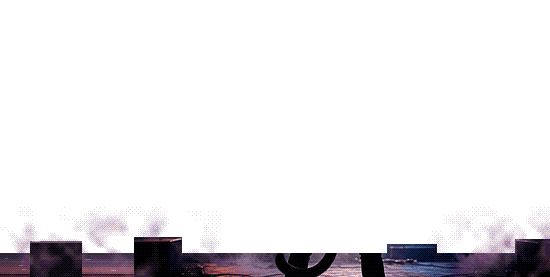
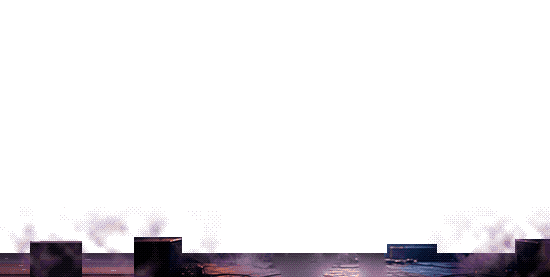
The puma plays along: a dip on the beat, a nod, a swinging tail
make-stage-art.py now paints in the stage behind the puma (filled in from
all round it, the stands' lights scattered back over), so the puma can
move, and cuts it into parts: its legs, which stand; its body from the
waist up with all of the bass, headstock and pegs included, and the
sliver of the bass's body showing beside the right arm made part of the
silhouette; its head from the neck up. Its tail, nearest the camera, is
taken out of the legs (but not where it crosses in front of one) and
left as a line for the page to draw.

painting.js plays them to the theme's beat: the body dips a pixel on
every beat, the head nods a pixel further a moment later, and the tail,
thick to its round end, swings lazily across the floor and flicks on the
bar.

Changed region(s): [[0.4945, 0.8953, 0.6182, 1.0], [0.6491, 0.8953, 0.7109, 1.0]]

diff --git a/web/js/painting.js b/web/js/painting.js
@@ -1,8 +1,9 @@
 // The title's backdrop: a pixel-art painting of the puma on stage from behind, bass slung, facing
 // a crowd of animals and their lights (web/art/, made by tools/make-stage-art.py). Drawn at its own
 // size into a canvas the page scales up square-pixelled, and played to the theme (title-sound.js):
-// the stage lights pulse on its beat, the crowd bobs to it row by row, the lights in the stands twinkle, the phones held up glint
-// and the lighters flicker, and haze drifts along the front of the stage behind the puma. With the
+// the stage lights pulse on its beat, the crowd bobs to it row by row, the lights in the stands
+// twinkle, the phones held up glint and the lighters flicker, and haze drifts along the front of the
+// stage behind the puma; the puma bobs on the beat, nods with it, and swings its tail. With the
 // theme not playing (not yet, or no sound), it keeps the theme's time by itself. Still under
 // reduced motion, and held while a sheet is up.
 
@@ -11,6 +12,9 @@ import { themeBeats, themeBeat } from './title-sound.js';
 const ART = name => new URL(`../art/${name}`, import.meta.url).href;
 const PULSE = 0.18;                      // seconds a beat's light takes to die away
 const BOB = 0.16;                        // seconds a row of the crowd stays up on its beat
+const DIP = 0.14;                        // seconds the puma's body stays down on its beat
+const NOD = [0.03, 0.22];                // when in the beat its head is down a pixel more (it follows the body)
+const SWAY = 8, SWING = 5, FLICK = 4;    // the tail: beats to swing once there and back, pixels at its tip, and its flick on the bar
 
 function load(name) {
   return new Promise((ok, fail) => { const i = new Image(); i.onload = () => ok(i); i.onerror = fail; i.src = ART(name); });
@@ -23,18 +27,18 @@ export function mountPainting(el) {
   const still = matchMedia('(prefers-reduced-motion: reduce)');
   const cv = el.appendChild(document.createElement('canvas'));
   cv.className = 'painting';
-  const names = ['stage.png', 'stage-crowd.png', 'stage-front.png', 'stage-puma.png', 'stage-haze.png'];
-  Promise.all([...names.map(load), fetch(ART('stage-crowd.json')).then(r => r.json())])
-    .then(([stage, crowd, front, puma, haze, meta]) => play(cv, { stage, crowd, front, puma, haze, meta }, still));
+  const names = ['stage.png', 'stage-crowd.png', 'stage-front.png', 'stage-puma.png', 'stage-puma-body.png', 'stage-puma-head.png', 'stage-haze.png'];
+  Promise.all([...names.map(load), ...['stage-crowd.json', 'stage-puma.json'].map(n => fetch(ART(n)).then(r => r.json()))])
+    .then(([stage, crowd, front, legs, body, head, haze, meta, pose]) => play(cv, { stage, crowd, front, legs, body, head, haze, meta, pose }, still));
 }
 
 function play(cv, art, still) {
-  const { stage, crowd, front, puma, haze, meta } = art;
+  const { stage, crowd, front, legs, body, head, haze, meta, pose } = art;
   const W = stage.width, H = stage.height, ctx = cv.getContext('2d');
   cv.width = W; cv.height = H;
   ctx.imageSmoothingEnabled = false;
   const px = (() => { const c = layer(); c.getContext('2d').drawImage(stage, 0, 0); return c.getContext('2d').getImageData(0, 0, W, H).data; })();
-  const pm = (() => { const c = layer(); c.getContext('2d').drawImage(puma, 0, 0); return c.getContext('2d').getImageData(0, 0, W, H).data; })();
+  const pm = (() => { const c = layer(), g = c.getContext('2d'); for (const p of [legs, body, head]) g.drawImage(p, 0, 0); return g.getImageData(0, 0, W, H).data; })();
   function layer() { return Object.assign(document.createElement('canvas'), { width: W, height: H }); }
   const isPuma = (x, y) => pm[(y * W + x) * 4 + 3] > 0;
   const lum = i => 0.299 * px[i] + 0.587 * px[i + 1] + 0.114 * px[i + 2];
@@ -116,8 +120,45 @@ function play(cv, art, still) {
       ctx.drawImage(haze, x, H - haze.height - lift);
     }
     ctx.globalAlpha = 1;
-    ctx.drawImage(puma, 0, 0);
+    drawPuma(at, n, into);
   }
+
+  // The puma: its legs stand; its tail, nearest us, swings lazily, flicking on the bar; its body
+  // dips a pixel on the beat, and its head follows it down a pixel further, a moment late.
+  const tailAt = new Uint8Array(W * H), touched = [];
+  function drawPuma(at, n, into) {
+    ctx.drawImage(legs, 0, 0);
+    const pts = pose.tail, last = pts.length - 1, sway = Math.sin(at / SWAY * 2 * Math.PI);
+    const bar = at % 4, flick = Math.exp(-bar / 0.35) * Math.sin(bar * 9);
+    const moved = pts.map(([x, y], i) => {
+      const w = Math.pow(i / last, 1.6), dx = (sway * SWING + flick * FLICK) * w;
+      return [x + dx, y - Math.abs(dx) * 0.3 * w];
+    });
+    for (const i of touched) tailAt[i] = 0;
+    touched.length = 0;
+    const disc = (x, y, r) => {
+      for (let py = Math.floor(y - r); py <= y + r; py++) for (let px = Math.floor(x - r); px <= x + r; px++) {
+        if (px < 0 || py < 0 || px >= W || py >= H || (px + 0.5 - x) ** 2 + (py + 0.5 - y) ** 2 > r * r) continue;
+        const j = py * W + px;
+        if (!tailAt[j]) { tailAt[j] = 1; touched.push(j); }
+      }
+    };
+    for (let i = 0; i < last; i++) {                              // Catmull-Rom through the points
+      const p0 = moved[Math.max(i - 1, 0)], p1 = moved[i], p2 = moved[i + 1], p3 = moved[Math.min(i + 2, last)];
+      for (let u = 0; u < 1; u += 0.12) {
+        const u2 = u * u, u3 = u2 * u;
+        const c = k => 0.5 * (2 * p1[k] + (-p0[k] + p2[k]) * u + (2 * p0[k] - 5 * p1[k] + 4 * p2[k] - p3[k]) * u2 + (-p0[k] + 3 * p1[k] - 3 * p2[k] + p3[k]) * u3);
+        disc(c(0), c(1), pose.width[i] + (pose.width[i + 1] - pose.width[i]) * u);
+      }
+    }
+    disc(moved[last][0], moved[last][1], pose.width[last]);       // its end, round
+    ctx.fillStyle = pose.colour;
+    for (const j of touched) ctx.fillRect(j % W, (j / W) | 0, 1, 1);
+    const dip = into < DIP ? 1 : 0, nod = into > NOD[0] && into < NOD[1] ? 1 : 0;
+    ctx.drawImage(body, 0, dip);
+    ctx.drawImage(head, 0, dip + nod);
+  }
+
 
   let t = 0, last = performance.now();
   function frame(now) {

diff --git a/tools/make-stage-art.py b/tools/make-stage-art.py
@@ -10,7 +10,8 @@
 #                    deer, owls), backlit, some holding up a phone or a lighter
 #   stage-crowd.json where each strip goes, and where the phones and lighters are
 #   stage-front.png  the stage floor and the monitors, drawn back over the crowd
-#   stage-puma.png   the puma alone (with the bass), drawn last
+#   stage-puma*.png  the puma in parts, drawn last: its legs, its body (with the bass), its head
+#   stage-puma.json  the line its tail hangs along, the page drawing the tail itself, so it can swing
 #   stage-haze.png   a strip of stage haze, tiling across, that drifts along the front
 #
 # The picture's own crowd (arms up) is painted out. web/js/painting.js draws them all, and plays
@@ -224,7 +225,66 @@ pal = np.array(pal_img.getpalette()[:COLOURS * 3]).reshape(-1, 3).astype(float)
 def paint(x, spread=SPREAD):
     d = x + np.tile(BAYER, (H // 4 + 1, W // 4 + 1))[:H, :W, None] * spread
     return pal[((d[:, :, None, :] - pal[None, None]) ** 2).sum(-1).argmin(-1)].astype(np.uint8)
-art = paint(cleaned)
+# ---- the puma: the dark shape grown out from the middle of its back, plus the bass's neck ----
+full = paint(pre)
+dark = lum(pre) < 34
+seed = (round(400 / SCALE), round(610 / SCALE) + L)
+mask = np.zeros((H, W), bool); mask[seed] = True
+q = deque([seed])
+while q:
+    y, x = q.popleft()
+    for dy, dx in ((1, 0), (-1, 0), (0, 1), (0, -1)):
+        ny, nx = y + dy, x + dx
+        if 0 <= ny < H and 0 <= nx < W and not mask[ny, nx] and dark[ny, nx]:
+            mask[ny, nx] = True; q.append((ny, nx))
+box = (yy >= round(350 / SCALE)) & (yy < round(500 / SCALE)) & (xx >= round(340 / SCALE) + L) & (xx < round(535 / SCALE) + L)
+line = np.abs((yy - 375 / SCALE) - (xx - (350 / SCALE + L)) * ((490 - 375) / (530 - 350))) < 12 / SCALE
+def poly(pts):
+    inside = np.zeros((H, W), bool)
+    for (x0, y0), (x1, y1) in zip(pts, pts[1:] + pts[:1]):
+        cross = ((y0 > yy + 0.5) != (y1 > yy + 0.5)) & (xx + 0.5 < (x1 - x0) * (yy + 0.5 - y0) / (y1 - y0 + 1e-9) + x0)
+        inside ^= cross
+    return inside
+# and all of the bass beyond the fist, the headstock and its pegs too: whatever is darker than the
+# lit haze behind it, inside the shape they make
+headstock = poly([(246, 123), (252, 114), (278, 115), (302, 134), (302, 158), (284, 154), (262, 140), (246, 133)]) & (lum(pre) < 145)
+puma = mask | (box & line & (lum(pre) < 150)) | headstock
+def grow(m, r):
+    g = m.copy()
+    for _ in range(r):
+        n = g.copy(); n[1:] |= g[:-1]; n[:-1] |= g[1:]; n[:, 1:] |= g[:, :-1]; n[:, :-1] |= g[:, 1:]; g = n
+    return g
+# and the sliver of the bass's body that shows through the gap between the right arm and the body:
+# part of the silhouette, in its dark
+gap = poly([(358, 132), (373, 132), (384, 176), (356, 176)]) & (yy < 172)
+sliver = gap & (lum(pre) < 120)
+# with the hairline of haze between it and the body closed up, so it's one shape with them
+closed = ~grow(~grow(puma | sliver, 2), 2)
+sliver = (sliver | (closed & ~puma)) & gap
+full[sliver] = np.median(full[mask & ~grow(~mask, 2)], axis=0)
+puma |= sliver
+
+# ---- what stands behind the puma, painted in, so it can move: filled in from all round it ----
+hole = grow(puma, 3)
+plate = cleaned.copy()
+known = (~hole).astype(float)
+val = plate * known[:, :, None]
+for _ in range(400):                                               # each pass carries the edge a pixel in
+    def blur(a):
+        b = a.copy()
+        b[1:] += a[:-1]; b[:-1] += a[1:]; b[:, 1:] += a[:, :-1]; b[:, :-1] += a[:, 1:]
+        return b
+    k, v = blur(known), blur(val)
+    fill = hole & (k > 0)
+    val[fill] = v[fill] / k[fill][:, None]
+    known = np.where(fill, 1.0, known)
+plate[hole] = val[hole]
+for y in range(96, CLEAN):                                         # and the stands' lights behind it
+    for x in np.nonzero(hole[y] & (rng.random(W) < 0.02))[0]:
+        disc(plate, x, y, rng.uniform(1.0, 2.2), lights[rng.integers(len(lights))] * 0.8)
+plate = np.clip(plate, 0, 255)
+
+art = paint(plate)
 Image.fromarray(art).save(os.path.join(out, 'stage.png'), optimize=True)
 
 sheet, meta, sy = [], [], 0
@@ -247,22 +307,26 @@ rgb = np.where(front[:, :, None], lerp(art.astype(float), puff, (lev * 0.55)[:, 
 a_ = np.where(front, 255, lev * 200)
 Image.fromarray(np.dstack([rgb * (a_ > 0)[:, :, None], a_]).astype(np.uint8)).save(os.path.join(out, 'stage-front.png'), optimize=True)
 
-# ---- the puma: the dark shape grown out from the middle of its back, plus the bass's neck ----
-full = paint(pre)
-dark = lum(pre) < 34
-seed = (round(400 / SCALE), round(610 / SCALE) + L)
-mask = np.zeros((H, W), bool); mask[seed] = True
-q = deque([seed])
-while q:
-    y, x = q.popleft()
-    for dy, dx in ((1, 0), (-1, 0), (0, 1), (0, -1)):
-        ny, nx = y + dy, x + dx
-        if 0 <= ny < H and 0 <= nx < W and not mask[ny, nx] and dark[ny, nx]:
-            mask[ny, nx] = True; q.append((ny, nx))
-box = (yy >= round(350 / SCALE)) & (yy < round(500 / SCALE)) & (xx >= round(340 / SCALE) + L) & (xx < round(535 / SCALE) + L)
-line = np.abs((yy - 375 / SCALE) - (xx - (350 / SCALE + L)) * ((490 - 375) / (530 - 350))) < 12 / SCALE
-keep = (mask | (box & line & (lum(pre) < 150)))[:, :, None]
-Image.fromarray(np.dstack([full * keep, keep[:, :, 0] * 255]).astype(np.uint8)).save(os.path.join(out, 'stage-puma.png'), optimize=True)
+# ---- the puma in parts, to move: its legs stand still; its body (with the bass) bobs on the beat
+# from the waist up; its head nods from the neck up; its tail, nearest the camera, swings, drawn
+# by the page along this line (painting.js). The tail here is taken out of the legs, except where
+# it crosses in front of a leg: the leg goes on behind it. ----
+NECK, WAIST = 99, 212
+TAIL = [(333, 210), (333, 225), (333, 240), (331, 252), (326, 262), (318, 268), (305, 272), (292, 272), (283, 268), (279, 261), (280, 253)]
+TAIL_W = [6.5] * len(TAIL)                                       # half its width: a puma's tail is thick to the end, and round there
+near = np.zeros((H, W), bool)
+for (x0, y0), (x1, y1), w in zip(TAIL, TAIL[1:], TAIL_W):
+    near |= seg(xx + 0.5, yy + 0.5, (x0, y0), (x1, y1), w + 1.5)
+legs_in = poly([(300, 212), (327, 212), (326, 219), (320, 231), (315, 243), (309, 255), (307, 261), (307, 277), (286, 277), (287, 270), (288, 261), (292, 250), (296, 240), (298, 231)]) \
+    | poly([(341, 212), (390, 212), (381, 219), (377, 240), (380, 255), (384, 277), (362, 277), (360, 252), (355, 240), (349, 225)])
+tail = near & ~legs_in & (yy >= WAIST)
+head = puma & (yy < NECK)
+parts = {'stage-puma.png': puma & (yy >= WAIST) & ~tail, 'stage-puma-body.png': puma & (yy < WAIST) & ~head, 'stage-puma-head.png': head}
+for name, m in parts.items():
+    Image.fromarray(np.dstack([full * m[:, :, None], m * 255]).astype(np.uint8)).save(os.path.join(out, name), optimize=True)
+colour = np.median(full[puma & ~grow(~puma, 2)], axis=0).astype(int)
+with open(os.path.join(out, 'stage-puma.json'), 'w') as f:
+    json.dump({'tail': TAIL, 'width': TAIL_W, 'colour': '#%02x%02x%02x' % tuple(colour)}, f, separators=(',', ':'))
 
 # ---- the haze: soft lilac noise, tiling across, thickest at the bottom, its edge dithered ----
 HH = 72

diff --git a/DESIGN.md b/DESIGN.md
@@ -248,7 +248,7 @@ The scale is written before the couch zoom (a 1080p TV draws it 1.5x).
 
 ## Layout
 
-Screens are fixed layers over the stage backdrop. The title is the canon's v0.4 layout in PumaBass's look: down the left, the wordmark in two lines (PUMA, then BASS in cyan with a glow), the short skewed cyan rule (220 x 4px) under it, the menu as rows in one glossy panel up to 460px with Settings, Help and About sharing its last row, and the greykit credit under it; the Music and Sound switches top right. Behind it is the painting (web/art/, painting.js): the puma seen from behind on stage, bass slung, facing an arena of lights over a crowd of animals (cats, foxes, rabbits, bears, mice, dogs, deer, owls), some holding up a phone or a lighter, never an arm held straight up. It is 550 x 277 pixels in 64 colours with an ordered dither, scaled up with square pixels to cover the screen, the puma kept 61% across so it stands clear of the menu (the arena runs on behind the menu). It is its own picture, documented as it is: it keeps its photograph's warm and violet stage light rather than the Tactical palette. It plays, slightly, to the theme: the rig's lights pulse on every beat of it (the bar's first hardest), the crowd bobs a pixel to the beat a row at a time, the lights in the stands twinkle, phones glint and lighters flicker, and haze drifts along the front of the stage behind the puma. The theme is a bass groove played live, twelve bars at 111.8 BPM going round without a seam; it starts as the title comes up, fades out as the title goes, and goes quiet while the tuner listens. With the theme not playing, the painting keeps its time by itself. The painting holds while a sheet is up, and stands still under reduced motion; the song list and end screen keep the still stage. The song list is one glossy panel up to 1100px wide, centred on the stage with 32/24px of stage around it: a header (title, count, brand mark), a 3px cyan-fading rule, a wrapping tool row, sticky-looking column heads, then a grid of rows (heart, song and artist, part, difficulty, tuning, plays, finished, length) with a 12px column gap.
+Screens are fixed layers over the stage backdrop. The title is the canon's v0.4 layout in PumaBass's look: down the left, the wordmark in two lines (PUMA, then BASS in cyan with a glow), the short skewed cyan rule (220 x 4px) under it, the menu as rows in one glossy panel up to 460px with Settings, Help and About sharing its last row, and the greykit credit under it; the Music and Sound switches top right. Behind it is the painting (web/art/, painting.js): the puma seen from behind on stage, bass slung, facing an arena of lights over a crowd of animals (cats, foxes, rabbits, bears, mice, dogs, deer, owls), some holding up a phone or a lighter, never an arm held straight up. It is 550 x 277 pixels in 64 colours with an ordered dither, scaled up with square pixels to cover the screen, the puma kept 61% across so it stands clear of the menu (the arena runs on behind the menu). It is its own picture, documented as it is: it keeps its photograph's warm and violet stage light rather than the Tactical palette. It plays, slightly, to the theme: the rig's lights pulse on every beat of it (the bar's first hardest), the crowd bobs a pixel to the beat a row at a time, the lights in the stands twinkle, phones glint and lighters flicker, haze drifts along the front of the stage behind the puma, and the puma plays along: its body dips a pixel on the beat, its head nods a pixel further a moment later, and its tail swings lazily across the floor, flicking on the bar. The theme is a bass groove played live, twelve bars at 111.8 BPM going round without a seam; it starts as the title comes up, fades out as the title goes, and goes quiet while the tuner listens. With the theme not playing, the painting keeps its time by itself. The painting holds while a sheet is up, and stands still under reduced motion; the song list and end screen keep the still stage. The song list is one glossy panel up to 1100px wide, centred on the stage with 32/24px of stage around it: a header (title, count, brand mark), a 3px cyan-fading rule, a wrapping tool row, sticky-looking column heads, then a grid of rows (heart, song and artist, part, difficulty, tuning, plays, finished, length) with a 12px column gap.
 
 The player gives the whole window to the highway; chrome sits over its edges in fades of the stage navy (top bar fading down, bottom bar fading up over a 24px section-coloured progress track). The side panel docks bottom right (380px). Overlays (PAUSED, countdown, caption, lyrics, sync bar) never take clicks.
 

diff --git a/DEVELOPING.md b/DEVELOPING.md
@@ -216,8 +216,9 @@ python3 tools/make-stage-art.py ~/Claude/references/pumabass.png
 
 It turns the picture into hi-bit pixel art (a third of its size, 64 colours, ordered dither), paints in a
 third more arena on the left (where the title's menu stands), paints out the picture's crowd and draws a
-crowd of animals in its place, and cuts out the puma, the stage front and a strip of haze, each a layer
-`painting.js` draws and plays. It's seeded, so the same picture always gives the same painting. It needs
+crowd of animals in its place, paints in the stage behind the puma, and cuts the puma into parts (legs,
+body with the bass, head) with the line its tail hangs along, so `painting.js` can bob it, nod it and
+swing the tail; and the stage front and a strip of haze, each a layer it draws and plays. It's seeded, so the same picture always gives the same painting. It needs
 Python with Pillow and numpy.
 
 ## The title's theme
